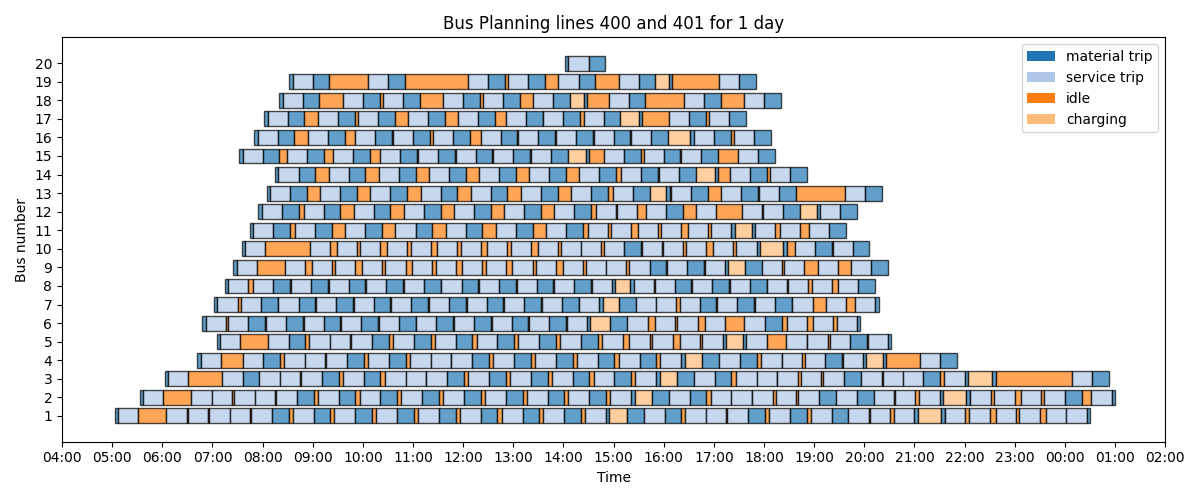
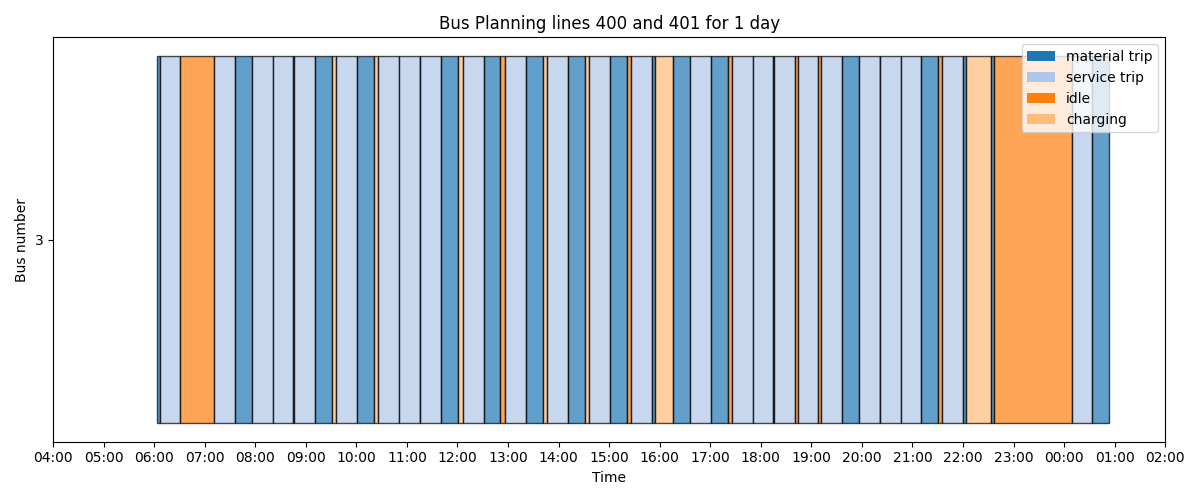
new
kijk efffe in improvedbuspaln

diff --git a/imporvedbusplan.py b/imporvedbusplan.py
@@ -1,0 +1,98 @@
+import pandas as pd
+import numpy as np
+
+def make_feasible_busplan(input_file="Bus Planning.xlsx", output_file="BusPlanning_feasible.xlsx"):
+    # Parameters
+    battery_capacity = 255
+    min_level = 0.1 * battery_capacity
+    max_level = 0.9 * battery_capacity
+    charge_rate = 450  # kWh per hour
+    idle_consumption = 5  # kW
+    min_charge_minutes = 15
+
+    # Load data
+    df = pd.read_excel(input_file, engine="openpyxl")
+    orig_cols = list(df.columns)
+
+    # Parse times
+    df["start time"] = pd.to_datetime(df["start time"], errors="coerce")
+    df["end time"] = pd.to_datetime(df["end time"], errors="coerce")
+
+    # Convert to seconds
+    df["start_seconds"] = df["start time"].dt.hour * 3600 + df["start time"].dt.minute * 60 + df["start time"].dt.second
+    df["end_seconds"] = df["end time"].dt.hour * 3600 + df["end time"].dt.minute * 60 + df["end time"].dt.second
+
+    all_rows = []
+
+    for bus, bus_df in df.groupby("bus"):
+        bus_df = bus_df.sort_values("start_seconds").reset_index(drop=True)
+        prev_end = None
+        battery = max_level
+
+        for i, row in bus_df.iterrows():
+            start_s, end_s = row["start_seconds"], row["end_seconds"]
+            activity = str(row["activity"]).lower() if pd.notna(row["activity"]) else ""
+
+            # Add idle gap if exists
+            if prev_end is not None and start_s > prev_end:
+                idle_dur = start_s - prev_end
+                idle_energy = (idle_dur / 3600) * idle_consumption
+                all_rows.append({
+                    "bus": bus,
+                    "activity": "idle",
+                    "start time": pd.to_datetime("00:00:00") + pd.to_timedelta(prev_end, unit='s'),
+                    "end time": pd.to_datetime("00:00:00") + pd.to_timedelta(start_s, unit='s'),
+                    "energy consumption": idle_energy,
+                    "start location": "EHVBST",
+                    "end location": "EHVBST"
+                })
+                battery -= idle_energy
+
+            # Check if charging needed before next trip
+            energy_needed = row.get("energy consumption", 0)
+            if battery - energy_needed < min_level:
+                charge_needed = max_level - battery
+                charge_time_hr = charge_needed / charge_rate
+                charge_time_sec = max(charge_time_hr * 3600, min_charge_minutes * 60)
+
+                charge_start = prev_end if prev_end else start_s - charge_time_sec
+                charge_end = charge_start + charge_time_sec
+
+                all_rows.append({
+                    "bus": bus,
+                    "activity": "charging",
+                    "start time": pd.to_datetime("00:00:00") + pd.to_timedelta(charge_start, unit='s'),
+                    "end time": pd.to_datetime("00:00:00") + pd.to_timedelta(charge_end, unit='s'),
+                    "energy consumption": -(charge_time_sec / 3600) * charge_rate,
+                    "start location": "EHVGAR",
+                    "end location": "EHVGAR"
+                })
+
+                battery = max_level
+                prev_end = charge_end
+
+            # Add the original trip
+            row_dict = row.to_dict()
+            row_dict["start time"] = pd.to_datetime("00:00:00") + pd.to_timedelta(start_s, unit='s')
+            row_dict["end time"] = pd.to_datetime("00:00:00") + pd.to_timedelta(end_s, unit='s')
+            all_rows.append(row_dict)
+
+            battery -= energy_needed
+            prev_end = end_s
+
+    # Combine results
+    df_new = pd.DataFrame(all_rows)
+
+    # Convert times back to HH:MM:SS
+    df_new["start time"] = df_new["start time"].dt.strftime("%H:%M:%S")
+    df_new["end time"] = df_new["end time"].dt.strftime("%H:%M:%S")
+
+    # Ensure all original columns exist
+    for col in orig_cols:
+        if col not in df_new.columns:
+            df_new[col] = np.nan
+    df_new = df_new[orig_cols]
+
+    # Save final Excel
+    df_new.to_excel(output_file, index=False)
+    print(f"✅ Feasible bus plan saved to: {output_file}")

diff --git a/__pycache__/excel-project/README.md b/__pycache__/excel-project/README.md
@@ -1,0 +1,24 @@
+# Excel Project
+
+This project is designed to create a new Excel file that replicates the structure and columns of an existing template Excel workbook.
+
+## Project Structure
+
+- `src/data/templates/workbook.xlsx`: This file is a template Excel workbook that contains the original columns and structure that will be replicated in the new Excel file.
+- `src/data/output`: This directory will contain the newly created Excel file with the same columns as the original template.
+- `package.json`: This file is the configuration file for npm. It lists the dependencies and scripts for the project.
+
+## Usage
+
+1. Place your template Excel file in the `src/data/templates` directory.
+2. Run the script to generate a new Excel file in the `src/data/output` directory.
+3. The new Excel file will have the same columns as the template.
+
+## Dependencies
+
+- pandas
+- openpyxl
+
+## License
+
+This project is licensed under the MIT License.
